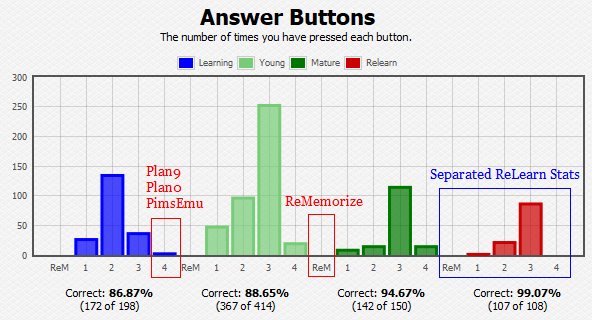
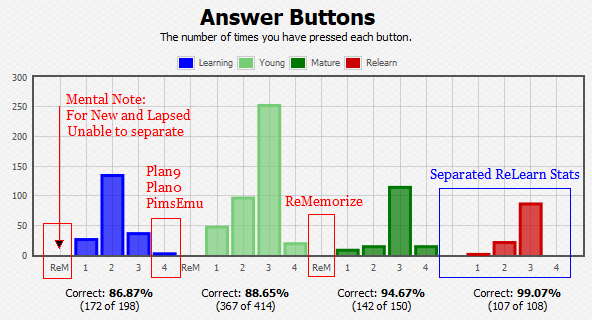
fixed ReM stats for lrn cards

diff --git a/src/five_finger_silver/fixReLrnStats.py b/src/five_finger_silver/fixReLrnStats.py
@@ -11,18 +11,20 @@ from anki.stats import *
 from anki.hooks import wrap
 
 
+TYPES = {0: [0, 0], 1: [0, 0], 2: [0,0], 3: [0, 0]}
+
+
 # From: anki.stats.CollectionStats
 # Mod: added range and type 3
 def _easeInfo(self, eases, _old):
-    types = {0: [0, 0], 1: [0, 0], 2: [0,0], 3: [0, 0]}
     for (type, ease, cnt) in eases:
         if ease == 1:
-            types[type][0] += cnt
+            TYPES[type][0] += cnt
         else:
-            types[type][1] += cnt
+            TYPES[type][1] += cnt
     i = []
     for type in range(4):
-        (bad, good) = types[type]
+        (bad, good) = TYPES[type]
         tot = bad + good
         try:
             pct = good / float(tot) * 100

diff --git a/src/five_finger_silver/fixReMemorize.py b/src/five_finger_silver/fixReMemorize.py
@@ -17,7 +17,7 @@ TYPES=("lrn", "yng", "mtr", 'rel')
 TICKS=[[0,'ReM'],[1,1],[2,2],[3,3],[4,4], #lrn
        [5,'ReM'],[6,1],[7,2],[8,3],[9,4], #young
        [10,'ReM'],[11, 1],[12,2],[13,3],[14,4], #mature
-       [15,'ReM'],[16,1],[17,2],[18,3],[19,4]] #lapsed
+                  [16,1],[17,2],[18,3],[19,4]]  #lapsed
 
 
 # From: anki.stats.CollectionStats

diff --git a/src/five_finger_silver/fixPlan9.py b/src/five_finger_silver/fixPlan9.py
@@ -34,6 +34,7 @@ def _eases(self, _old):
         lim = ""
     return self.col.db.all("""
 select (case
+when type = 4 and lastIvl < 1 then 0  /* ReM new, can't filter lapse */
 when type = 0 then 0         /* lrn */
 when type = 2 then 3         /* lapse */
 when lastIvl < 21 then 1     /* young */

diff --git a/README.md b/README.md
@@ -1,6 +1,6 @@
 # FiveFingerSilver: Fix answer button graph
 
-
+## About:
 This addon is used to fix the answer button graph label and stats for ReMemorize and Plan9/0. But since this addon conflicts with another addon and that one is not yet available for 2.1, I went ahead and added those ideas into this addon.
 
 <img src="https://github.com/lovac42/FiveFingerSilver/blob/master/screenshots/graphs.png?raw=true">
@@ -10,18 +10,12 @@ Relearn Stats 1.0 C 2014-2015 by Teemu Pudas https://ankiweb.net/shared/info/199
 
 
 
-## V1-V2 logging inconsistencies:
-For learning cards, in V1 there are 3 buttons, the good button is mapped to ease2. But in V2, hard button repeats, we have 4 grading buttons, and the good button is mapped to ease3.
+## V1-V2 Logging Inconsistencies:
+For learning cards, in V1 there are 3 buttons, the good button is mapped to ease2. But in V2, hard button repeats, we have 4 grading buttons, and the good button is mapped to ease3. When generating stats, the good button on V1 is aligned to the hard button on V2. The easy btn on V1 is aligned to the good btn on V2.
 
 (Still with me?)
 
-In anki.stats.py, when generating stats, it uses old code for V1. So ease4 and ease3 are counted as ease3. The old stats data from V1 and the new stats for V2 will be merged, so the hard button (v2) and the good button (v1) are merged as one bar on the graph. And the good button (v1) and the easy button (v2) are merged as one bar.
+<b>To see what I mean,</b> start out with V1 on a new profile, grade 3 cards as again, good, and easy. Look at the stats. Then switch over to V2, grade 4 cards as again, hard, good, and easy. Look at the stats again. The good btn count (V1) will be merged with the hard btn count (V2) and the same for the other grades.
 
-<b>To see what I mean. Start out with V1, grade 3 cards as again, good, and easy. Look at stats. Then switch over to V2, grade 4 cards as again, hard, good, and easy. Look at stats again. Good btn stats (V1) is merged with hard btn stats (V2) and the same for the other grades.</b>
-
-Fixing this was not the intention of this addon, just be aware that data from V1 and V2 will skew the stats for learning cards and the old stats from V1 will interfere with the new stats after switching to V2 for at least a month before it tapers off.
-
-(And I will not even bother to go into details about filter deck logging inconsistencies between V1-V2. With these findings, we can forget about any sort of accurate matrix schedulers.)
-
-And lets hope nobody has any bright ideas about dual switching between V2 on 2.1 and V1 on 2.0. No...
+Fixing this was not the intention of making this addon, just be aware that data from V1 and V2 will skew the stats for learning cards and the old stats from V1 will interfere with the new stats after switching to V2 for at least a month before it tapers off. To be clear, this isn't to say that V2 is incorrect, it's just annoying to switch over like switching from QWERTY to DVORAK. Perhapse someone could write an addon to convert the review log to the new format? We could call it "Humpty Dumpty: Used Only Once".
 
